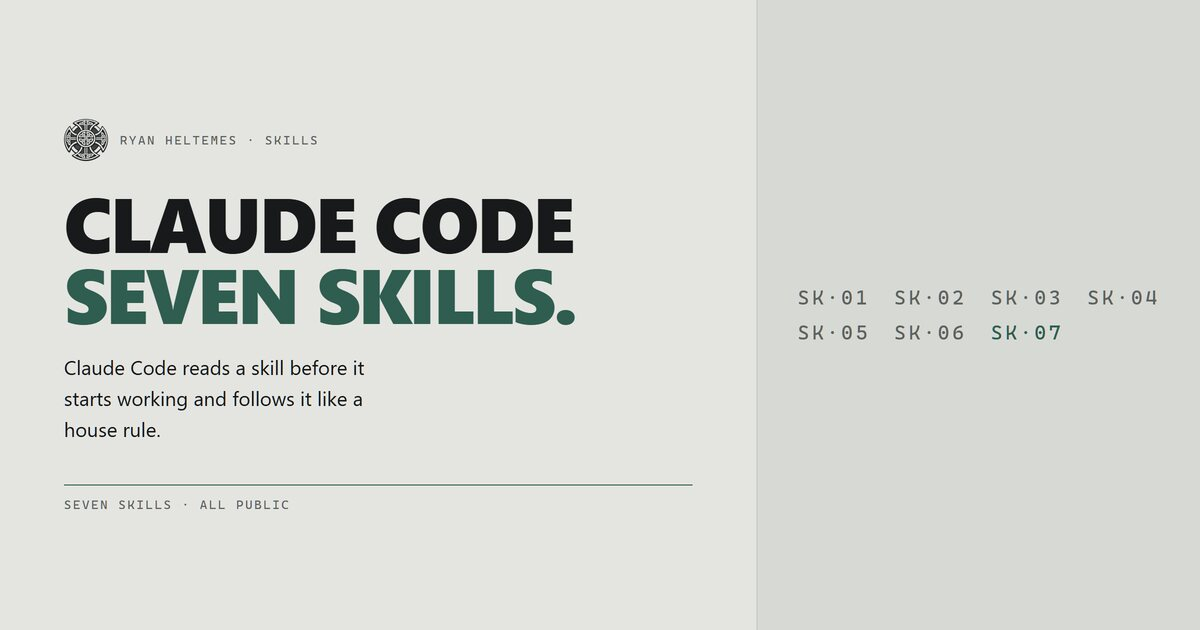
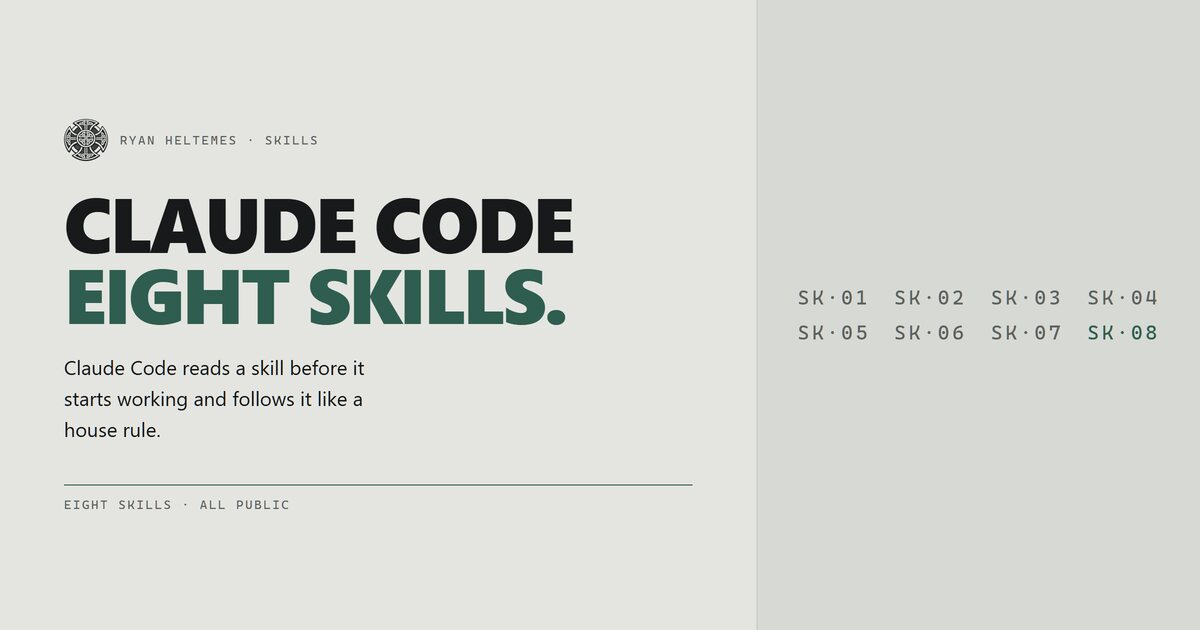
skills: add Ekphrasis as SK-07, Wheel to Talk moves to SK-08
Ekphrasis is the anti-slop method for image and animation prompts, published
today at github.com/Pr1m4lc0d3/ekphrasis. Adding style words is what makes an
AI picture look like an AI picture; a mood leaves every real decision to the
model and it fills each gap with the average.

Codes are positional and Wheel to Talk is pinned last, so the new row goes in
above it and takes its number. Group-head count Seven to Eight, and the lede
with it, or the page contradicts its own list.

The share card is regenerated from its own source rather than edited: headline
Eight skills, the numeral run extended to SK-08 with the last accented. That
panel exists precisely so the card cannot silently disagree with the page.
Cache-buster bumped ?2 to ?3 on both og:image and twitter:image because the
image changed; a consumer holding the old one must re-fetch.

index.html is untouched. It carries a door to this page (SW-06), never a copy
of the list, so its pinned 407-line budget is undisturbed.

Also keeps the plate generator this time. 1fd1295 set the house rule that a
skill plate is the lockup alone rather than the OG card squeezed down, but it
changed two .webp files and kept no script, so the method had to be read back
out of its commit message. _source-assets/works/build-skill-plate.py now
records it, which is the same lesson the OG cards already learned.

Claude-Session: https://claude.ai/code/session_015te4McZJhgwWeFSWmMRPRr

Changed region(s): [[0.0308, 0.4222, 0.4933, 0.5127], [0.8633, 0.5127, 0.9867, 0.5429], [0.0617, 0.7841, 0.0925, 0.8143]]

diff --git a/skills.html b/skills.html
@@ -4,21 +4,21 @@
 <meta charset="utf-8">
 <meta name="viewport" content="width=device-width, initial-scale=1">
 <title>Claude Code skills &mdash; Ryan Heltemes</title>
-<meta name="description" content="Seven Claude Code skill sets: keeping AI-written code simple, dictation on the mouse, guerrilla marketing, turning a product's contradictions into its positioning, writing prose a reader stays with, reading audio the AI cannot hear, and restating a message without the claim drifting.">
+<meta name="description" content="Eight Claude Code skill sets: keeping AI-written code simple, dictation on the mouse, guerrilla marketing, turning a product's contradictions into its positioning, writing prose a reader stays with, reading audio the AI cannot hear, restating a message without the claim drifting, and writing image prompts that produce a picture instead of the average.">
 
 <meta property="og:title" content="Claude Code skills">
-<meta property="og:description" content="Seven skill sets for Claude Code. Keep the code simple, talk instead of type, market with no budget, find the position hiding in a contradiction, write prose a reader stays with, read audio the AI cannot hear, and restate a message without the claim drifting.">
+<meta property="og:description" content="Eight skill sets for Claude Code. Keep the code simple, talk instead of type, market with no budget, find the position hiding in a contradiction, write prose a reader stays with, read audio the AI cannot hear, restate a message without the claim drifting, and write image prompts that produce a picture instead of the average.">
 <meta property="og:type" content="website">
 <meta property="og:url" content="https://ryan-heltemes.com/skills.html">
-<meta property="og:image" content="https://ryan-heltemes.com/assets/og/og-skills.jpg?2">
+<meta property="og:image" content="https://ryan-heltemes.com/assets/og/og-skills.jpg?3">
 <meta property="og:image:width" content="1200">
 <meta property="og:image:height" content="630">
-<meta property="og:image:alt" content="The Ryan Heltemes mark over the words Claude Code, Seven skills, on a pale zinc ground, beside the run of skill codes SK-01 to SK-07.">
+<meta property="og:image:alt" content="The Ryan Heltemes mark over the words Claude Code, Eight skills, on a pale zinc ground, beside the run of skill codes SK-01 to SK-08.">
 <meta property="og:site_name" content="Ryan Heltemes">
 <meta name="twitter:card" content="summary_large_image">
 <meta name="twitter:title" content="Claude Code skills">
-<meta name="twitter:description" content="Seven skill sets for Claude Code: simple code, dictation, marketing, positioning, persuasion, audio, message fidelity.">
-<meta name="twitter:image" content="https://ryan-heltemes.com/assets/og/og-skills.jpg?2">
+<meta name="twitter:description" content="Eight skill sets for Claude Code: simple code, dictation, marketing, positioning, persuasion, audio, message fidelity, image prompts.">
+<meta name="twitter:image" content="https://ryan-heltemes.com/assets/og/og-skills.jpg?3">
 
 <link rel="icon" href="favicon.ico" sizes="16x16 32x32 48x48">
 <link rel="icon" type="image/png" sizes="32x32" href="assets/icons/favicon-32.png">
@@ -59,12 +59,12 @@
 
   <div class="group-head" id="skills">
     <h2 class="group-name">Claude Code skills</h2>
-    <span class="util">Seven</span>
+    <span class="util">Eight</span>
   </div>
 
   <p class="util">
     Claude Code reads a skill before it starts working and follows it like a
-    house rule. These are the seven I keep loaded.
+    house rule. These are the eight I keep loaded.
   </p>
 
   <ul class="work-list">
@@ -177,9 +177,27 @@
 
     <li class="work-row">
       <span class="plate plate--thumb"
+            style="background-image: url('assets/works/ekphrasis.webp');"></span>
+      <span class="work-body">
+        <span class="work-name"><span class="work-code util">SK&middot;07</span>Ekphrasis</span>
+        <span class="work-what">
+          Adding style words is what makes AI pictures look like AI pictures, not
+          what fixes them. A mood leaves every real decision to the model, and it
+          fills each gap with the average. Names the subject instead, fixes the
+          light, and says what the picture is not.
+        </span>
+      </span>
+      <span class="work-facts util">
+        <span class="status status--live">Public</span>
+        <a class="go" href="https://github.com/Pr1m4lc0d3/ekphrasis">github.com/&hellip;/ekphrasis &rarr;</a>
+      </span>
+    </li>
+
+    <li class="work-row">
+      <span class="plate plate--thumb"
             style="background-image: url('assets/works/wheel-to-talk.webp');"></span>
       <span class="work-body">
-        <span class="work-name"><span class="work-code util">SK&middot;07</span>Wheel to Talk</span>
+        <span class="work-name"><span class="work-code util">SK&middot;08</span>Wheel to Talk</span>
         <span class="work-what">
           Claude Code&rsquo;s dictation only binds to keyboard keys. This puts it
           on the middle mouse button &mdash; hold, speak, release.
